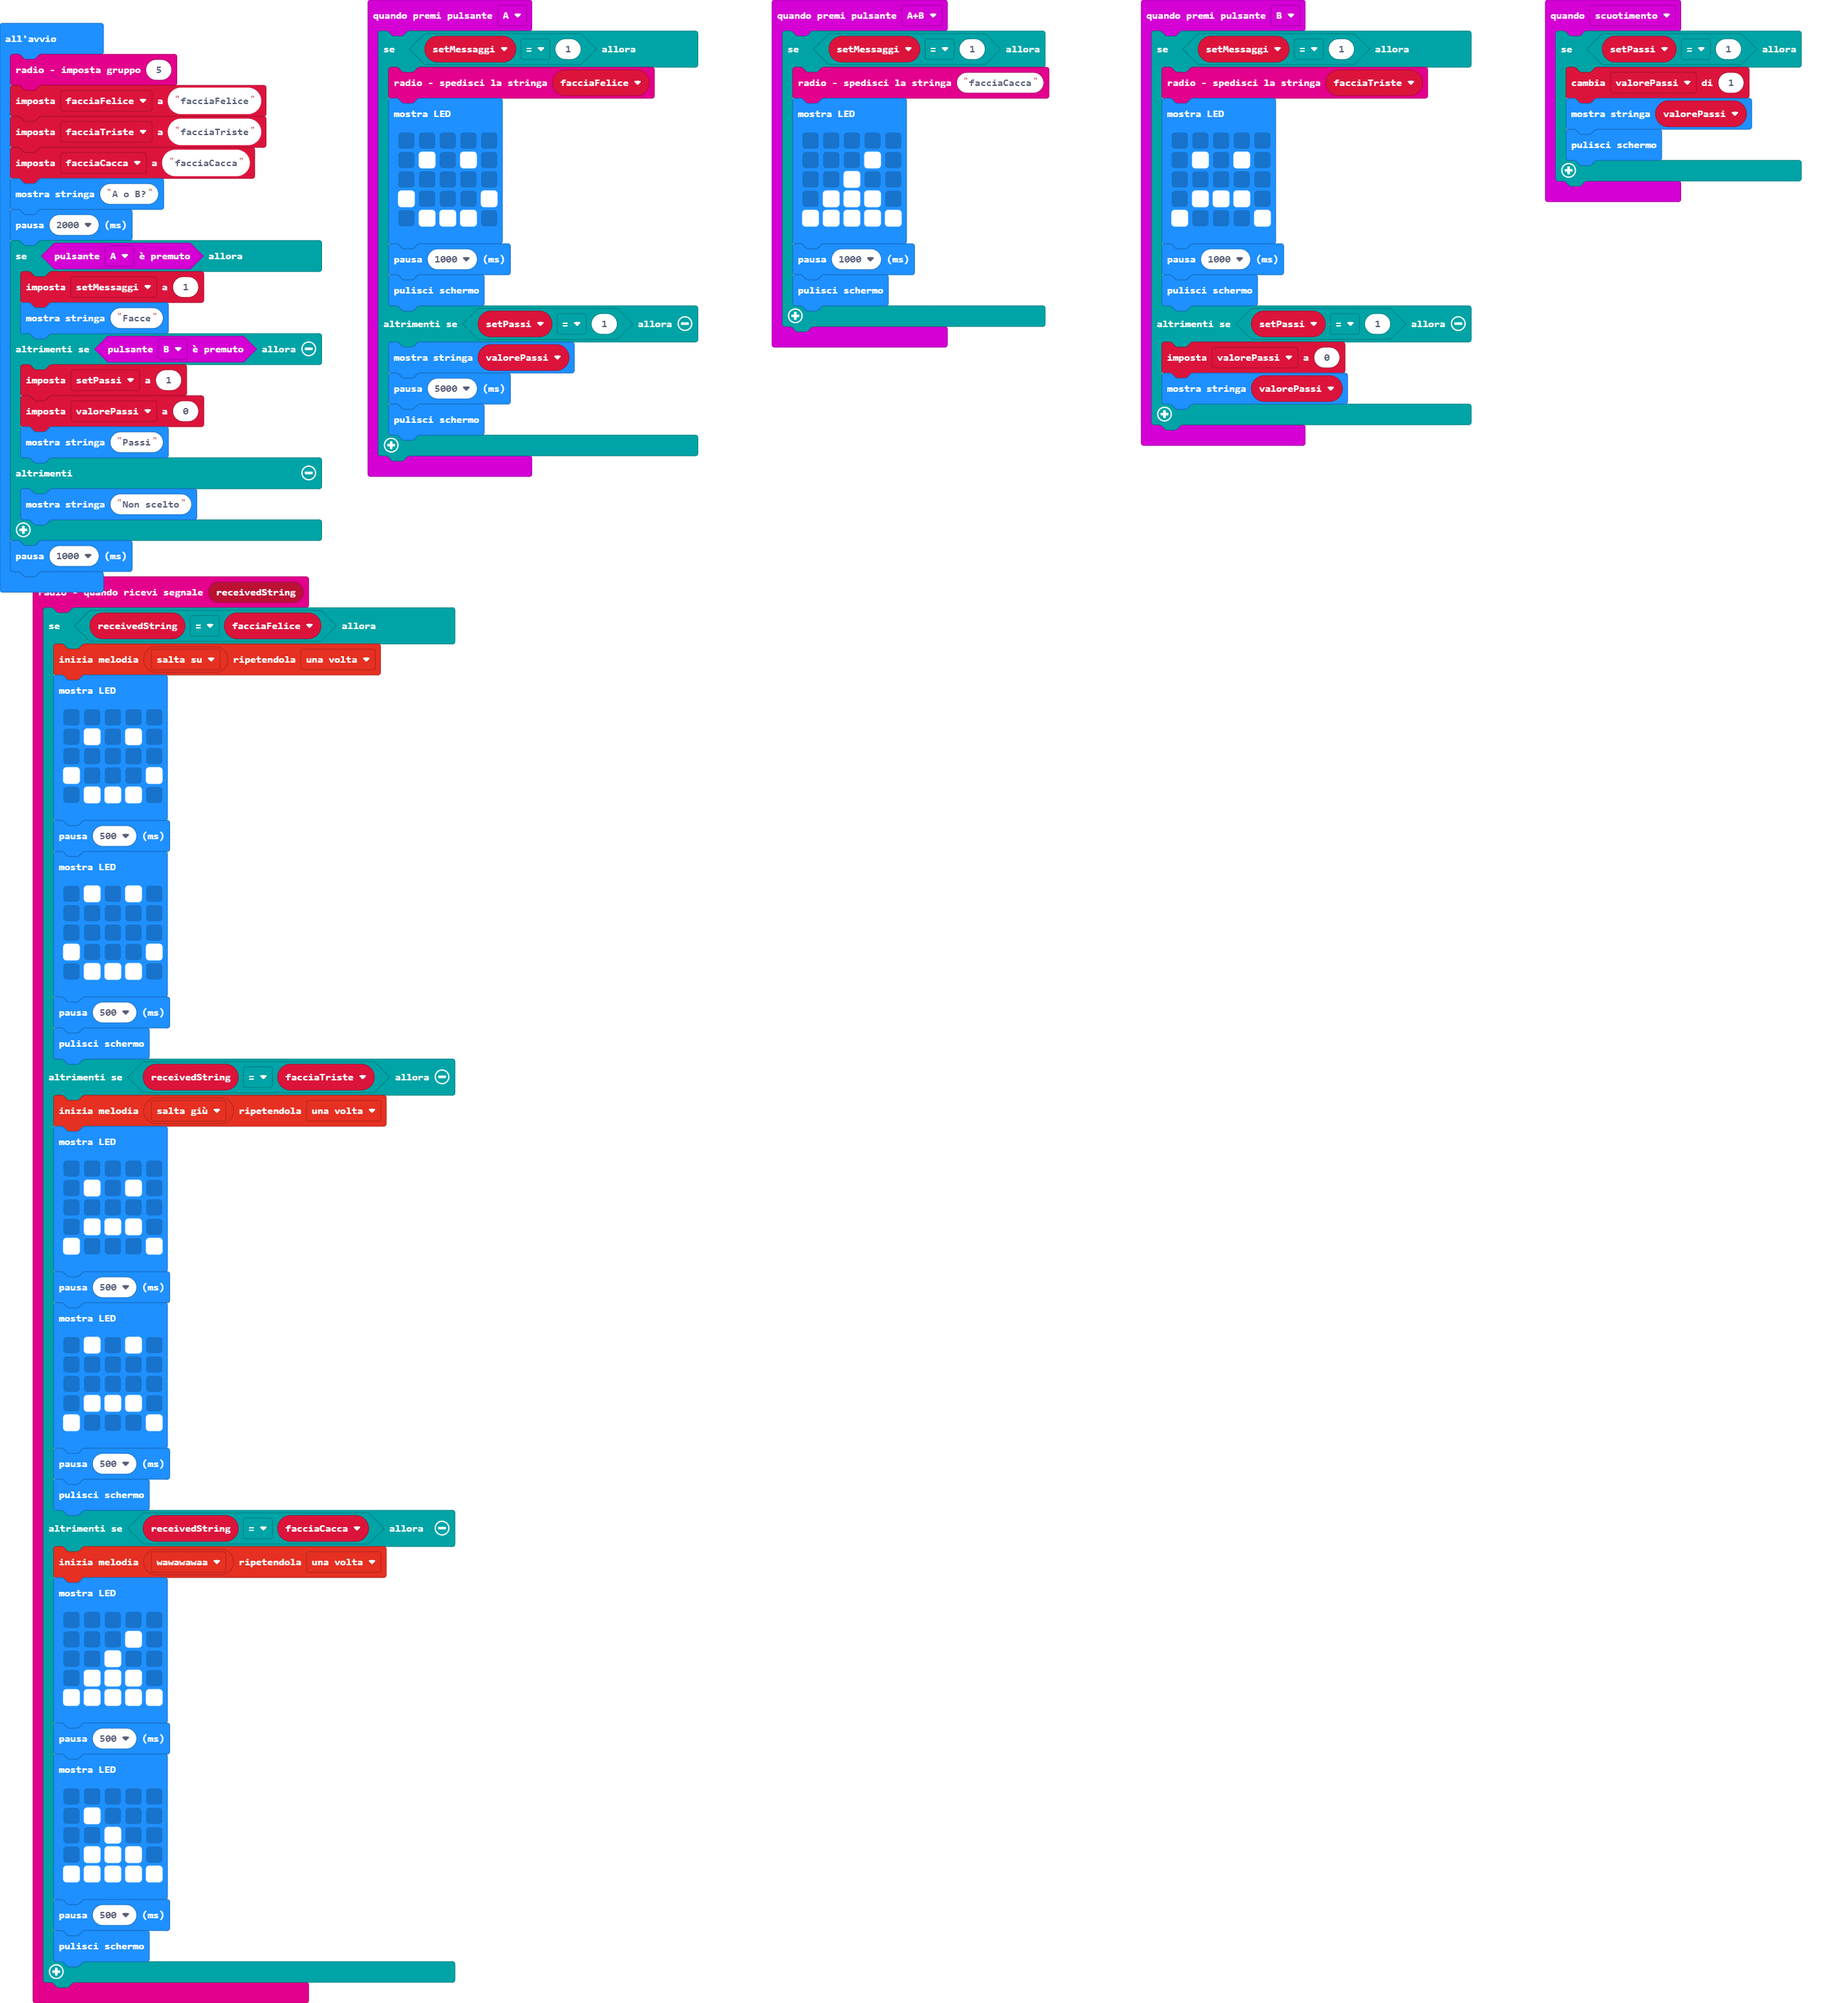
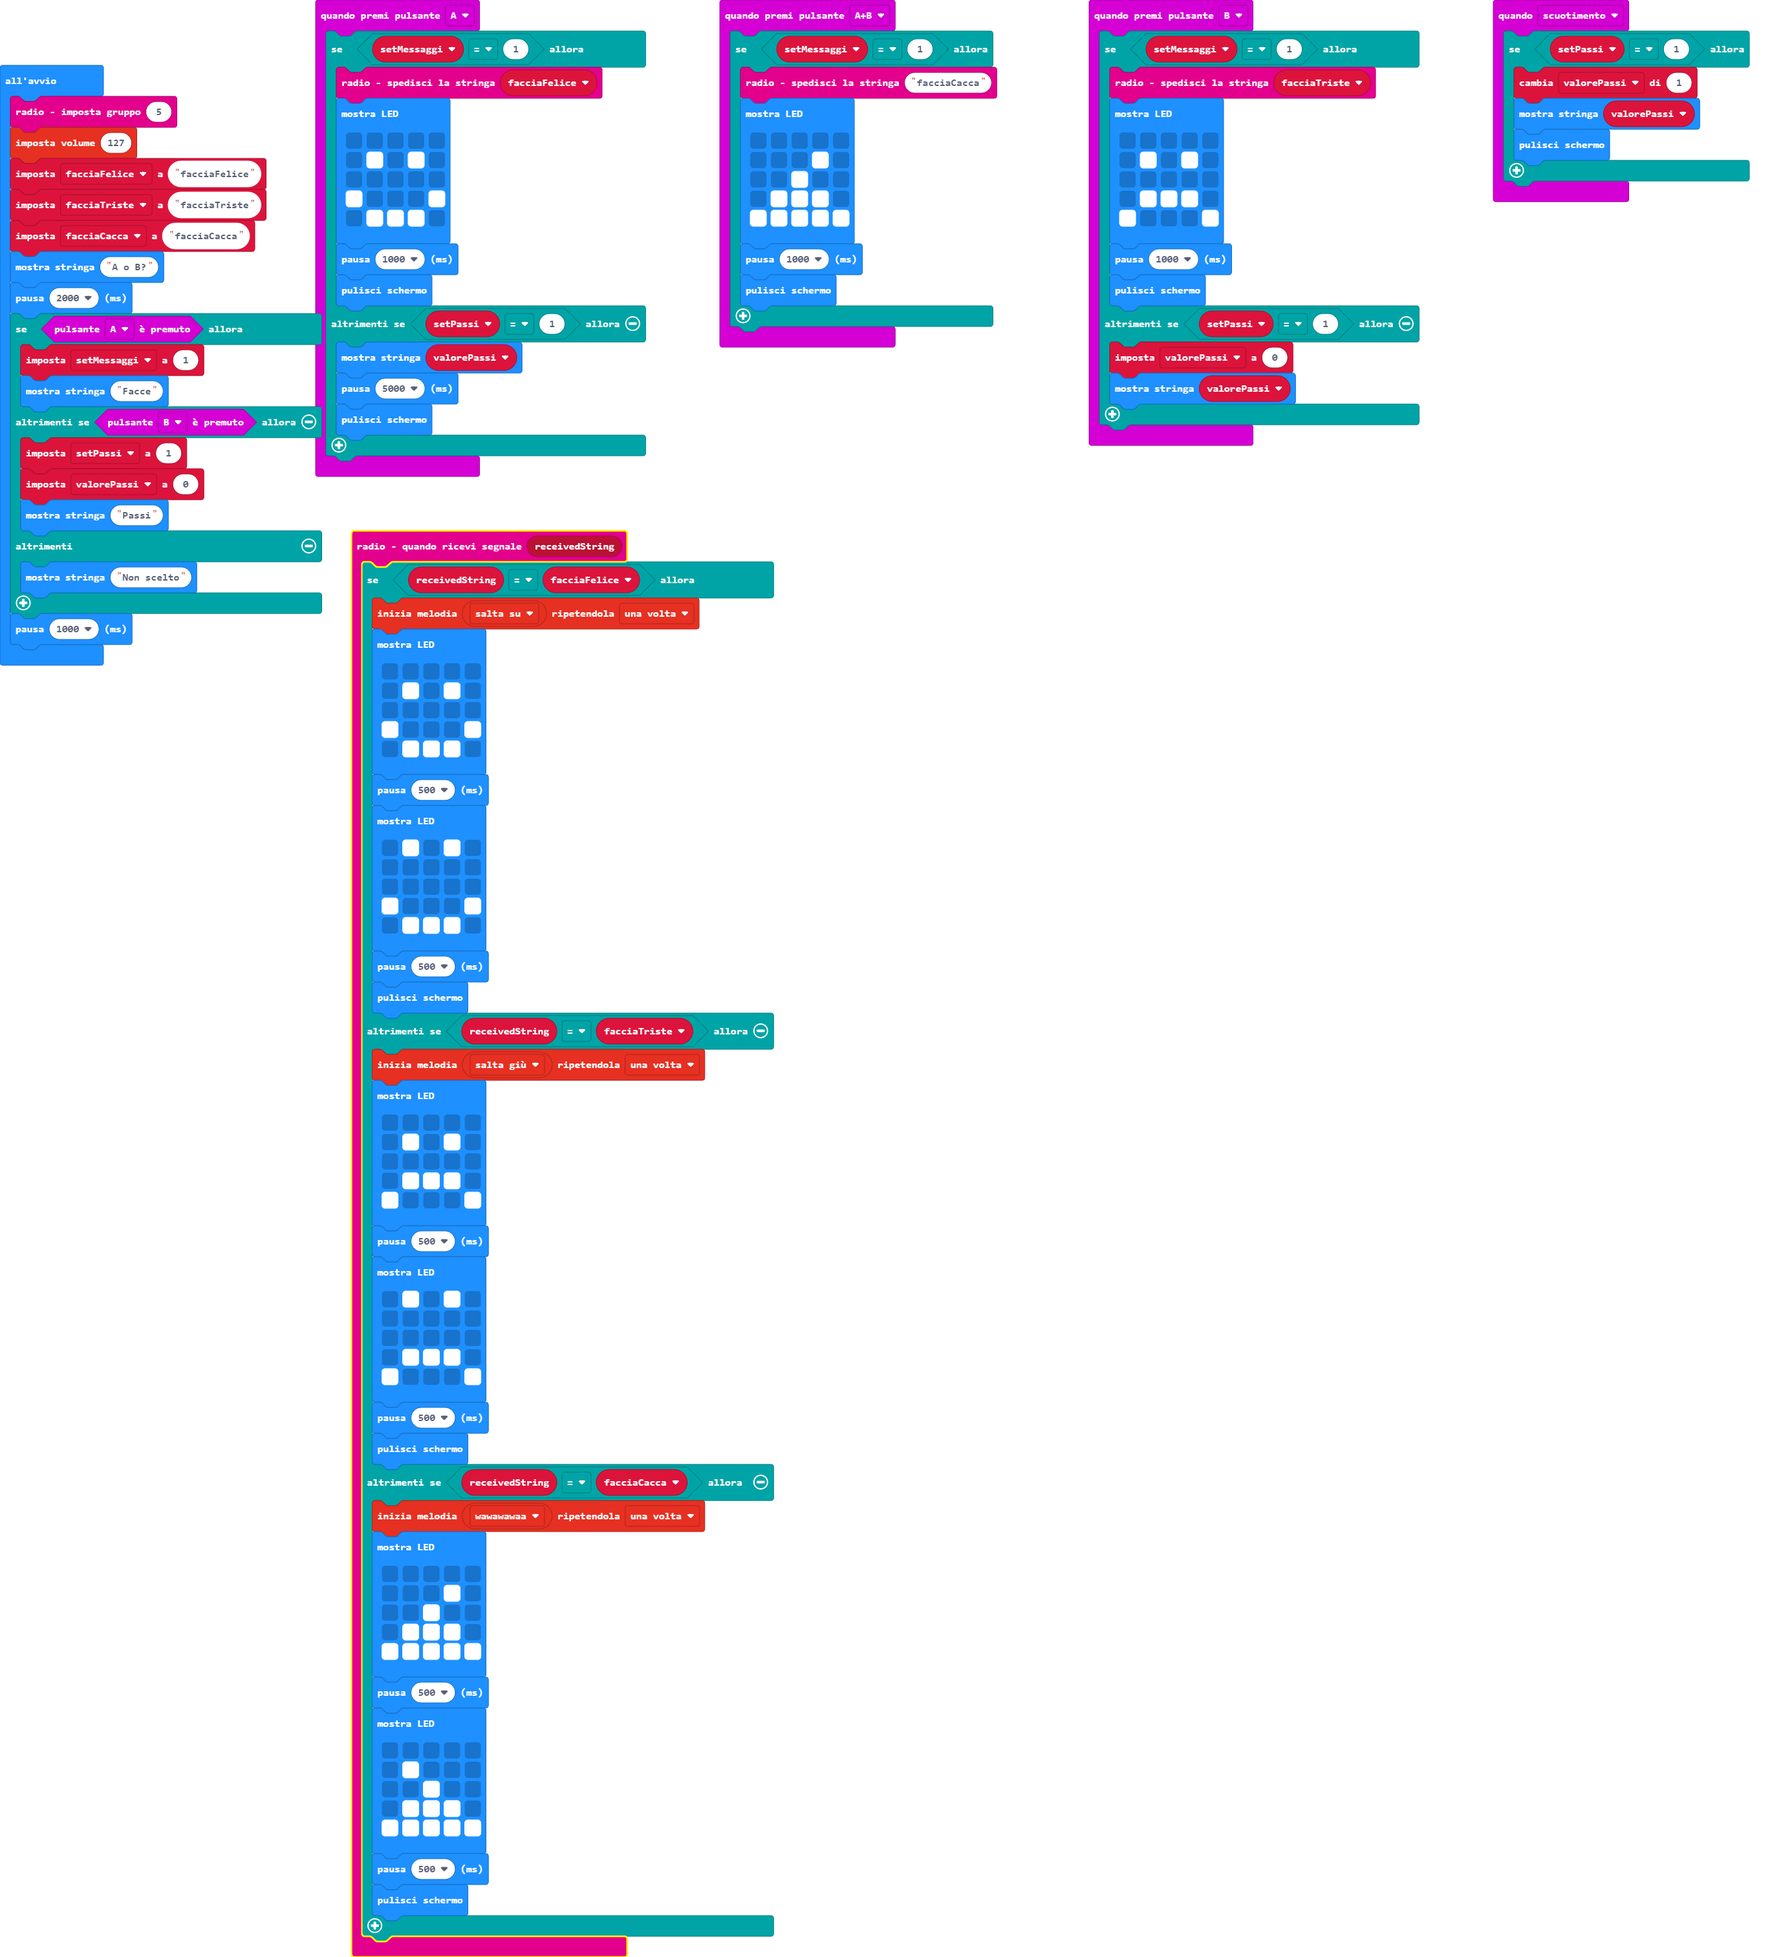
Aggiorna main.blocks, main.ts

Changed region(s): [[0.0, 0.0, 0.811, 1.0], [0.7798, 0.0, 0.967, 0.1242]]

diff --git a/main.ts b/main.ts
@@ -121,6 +121,7 @@ let facciaCacca = ""
 let facciaTriste = ""
 let facciaFelice = ""
 radio.setGroup(5)
+music.setVolume(127)
 facciaFelice = "facciaFelice"
 facciaTriste = "facciaTriste"
 facciaCacca = "facciaCacca"
